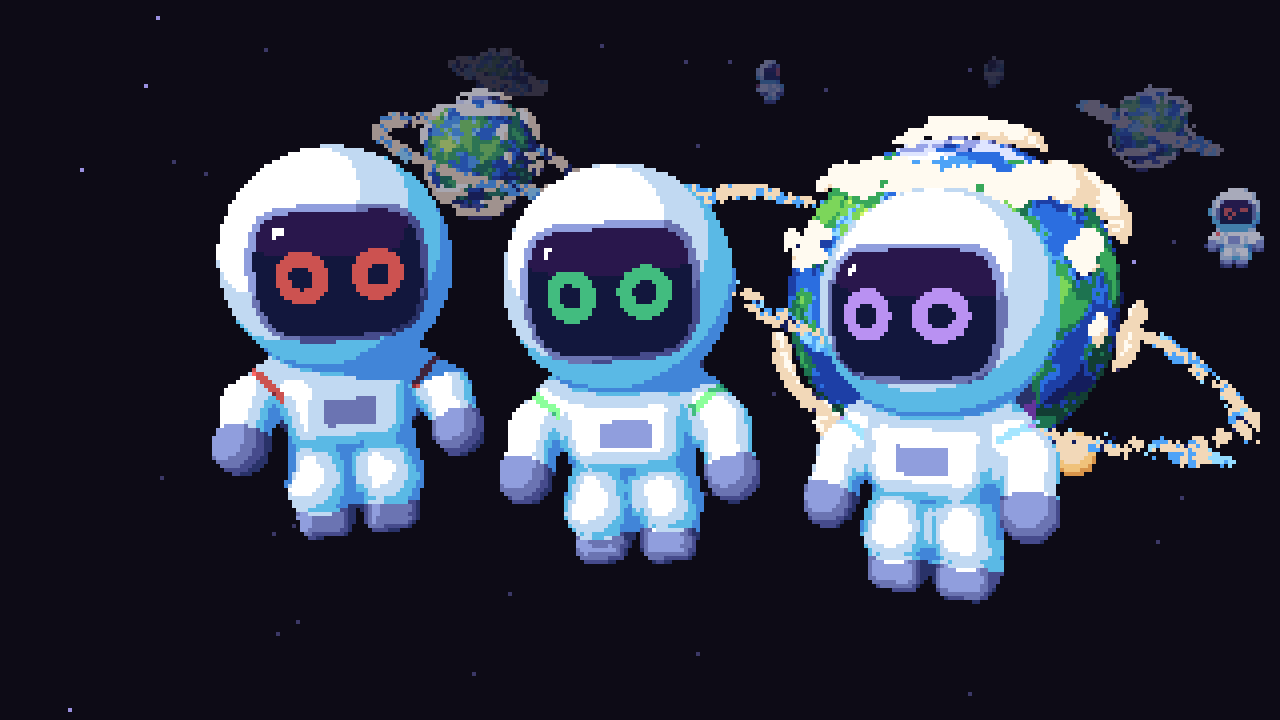
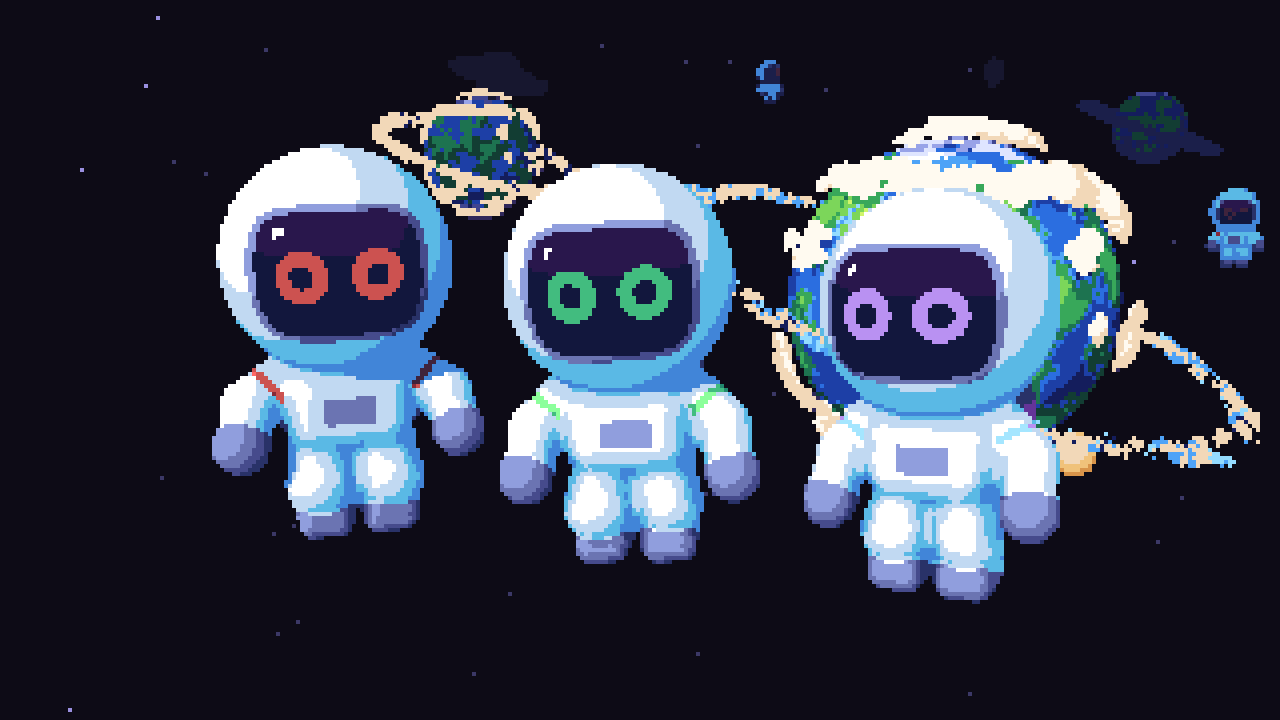
feat(mockup): depth colour budgets (fewer colours with distance)
DEPTH_LEVELS (one table): per-object level -> tones per ramp via LUTs on the
ramp data (near full, mid 3, far 2, silhouette 1 flat colour), a detail schedule
(mid: no cloud shadow, ring 2 tones; far: no clouds, moons or artefacts, ring 1
tone) and per-object colour caps. The fade snaps each reduced colour onto its own
ramp's reduced colours or the depth tint, with no lerped in-betweens. Lava glow is
emissive and never snaps to the tint. Astronauts follow the same budgets with
BLK 36. The UI counts objects per level. test/depth-budget.test.mjs renders each
depth-scene object alone (lush, lava) and checks the caps, monotonic counts and
non-empty renders. Unique colours: system shot 117 -> 68, depth scene 115 -> 44.

diff --git a/mockups/asset-viewer/viewer.js b/mockups/asset-viewer/viewer.js
@@ -112,20 +112,34 @@ const resolve = (key) => {
   return v !== undefined || !key.includes('.') ? v : resolve(key.split('.').slice(0, -1).join('.'));
 };
 
-const DEPTH_RANGES = [12, 26, 44]; // camera distances at which an object drops a level
-const depthCache = new Map();
+// Depth colour budgets: the further away something is, the fewer colours it uses. One
+// row per depth level, picked per OBJECT (never per pixel) from its camera distance.
+//   from      camera distance at which an object drops to this level
+//   lut       ramp entry i reads entry lut[length][i], so adjacent tones merge (keyed by
+//             ramp length; missing = identity). tones = distinct entries per ramp
+//   ringLut   the ring's 4 entries (0 = debris in the planet's shadow)
+//   detail    what a planet still draws at this level
+//   maxColours  per-object unique-colour caps, enforced by test/depth-budget.test.mjs
+// Beyond near, each faded colour is the tinted colour snapped onto that ramp's own
+// REDUCED colours (plus the palette's depth tint), so a fade steps down the object's own
+// ramp; there are no lerped in-between colours. Emissive glow (lava fissures) never snaps
+// to the tint, so a far lava world still glows. The silhouette is one flat colour.
+export const DEPTH_LEVELS = [
+  { name: 'near', from: 0, tones: 5, lut: {}, ringLut: [0, 1, 2, 3],
+    detail: { clouds: true, shadow: true, moons: true, artefacts: true, haze: true }, maxColours: { planet: 24, crew: 16 } },
+  { name: 'mid', from: 12, tones: 3, lut: { 5: [0, 1, 1, 3, 3], 4: [0, 1, 1, 3] }, ringLut: [0, 1, 1, 1],
+    detail: { clouds: true, shadow: false, moons: true, artefacts: true, haze: true }, maxColours: { planet: 14, crew: 10 } },
+  { name: 'far', from: 26, tones: 2, lut: { 5: [0, 0, 3, 3, 3], 4: [0, 0, 3, 3], 3: [0, 2, 2] }, ringLut: [1, 1, 1, 1],
+    detail: { clouds: false, shadow: false, moons: false, artefacts: false, haze: true }, maxColours: { planet: 6, crew: 5 } },
+  { name: 'silhouette', from: 44, tones: 1, lut: null, ringLut: null, // null: everything one flat colour
+    detail: { clouds: false, shadow: false, moons: false, artefacts: false, haze: false }, maxColours: { planet: 1, crew: 1 } },
+];
+const levelFor = (d) => DEPTH_LEVELS.filter((l) => d >= l.from).length - 1;
 // `family` lets planets fade through their own shared set (palette.planetDepth)
 // while the crew keeps the palette's depth steps.
-function depthColor(hex, level, family = 'crew') {
-  const key = `${paletteName}:${family}:${hex}:${level}`;
-  if (!depthCache.has(key)) {
-    const pal = family === 'planet' && PALETTES[paletteName].planetDepth ? PALETTES[paletteName].planetDepth : PALETTES[paletteName];
-    const [tint, t] = pal.depth[level];
-    const c = new THREE.Color(hex).lerp(new THREE.Color(tint), t);
-    // Published palettes snap each depth step back onto their own (darker) colours.
-    depthCache.set(key, pal.snap?.[level] ? new THREE.Color(snapToPool(c, pal.snap[level])) : c);
-  }
-  return depthCache.get(key);
+function depthTint(level, family) {
+  const pal = family === 'planet' && PALETTES[paletteName].planetDepth ? PALETTES[paletteName].planetDepth : PALETTES[paletteName];
+  return pal.depth[level];
 }
 
 const LIGHT_DIR = new THREE.Vector3(-0.3, 0.55, 0.78).normalize(); // top-left key ~40° off the view: concentric crescents
@@ -500,17 +514,36 @@ function setDepthLevel(obj, level) {
   if (obj.userData.depthLevel === level) return;
   obj.userData.depthLevel = level;
   const family = obj.userData.depthFamily ?? 'crew';
+  const row = DEPTH_LEVELS[level];
+  // Each ramp entry reads its reduced source hex (adjacent tones merged by the level's LUT).
+  const ramps = []; // per ramp: [[colour to write, reduced hex], ...]
   obj.traverse((o) => {
-    const mats = o.material ? [o.material].flat() : [];
-    for (const m of mats) {
+    for (const m of o.material ? [o.material].flat() : []) {
       for (const [name, key] of Object.entries(m.userData.ramps ?? {})) {
-        const hexes = resolve(key);
+        const hexes = [resolve(key)].flat();
         const arr = m.uniforms[name].value;
-        if (Array.isArray(arr)) arr.forEach((u, i) => u.copy(depthColor(hexes[Math.min(i, hexes.length - 1)], level, family))); // short ramps repeat their last colour
-        else arr.copy(depthColor(hexes, level, family));
+        const emissive = key === 'glow'; // lava fissures glow at any distance: they never snap to the tint
+        if (!Array.isArray(arr)) { ramps.push(Object.assign([[arr, hexes[0]]], { emissive })); continue; }
+        const lut = m.userData.ring ? row.ringLut : row.lut?.[arr.length];
+        ramps.push(Object.assign(arr.map((u, i) => [u, hexes[Math.min(lut ? lut[i] : i, hexes.length - 1)]]), { emissive })); // short ramps repeat their last colour
       }
     }
   });
+  if (!ramps.length) return;
+  const [tint, t] = depthTint(level, family);
+  // Tint toward the depth colour, then snap onto the ramp's own reduced colours (or the
+  // tint itself), so the fade steps down the object's own ramp with no in-between colours.
+  const snap = (hex, pool) => (level === 0 ? hex : snapToPool(new THREE.Color(hex).lerp(new THREE.Color(tint), t), pool));
+  if (!row.lut) {
+    const flat = snap(ramps[0][0][1], [ramps[0][0][1], tint]); // silhouette: one flat colour for the whole object
+    for (const r of ramps) for (const [u] of r) u.set(flat);
+  } else {
+    for (const r of ramps) {
+      const pool = [...new Set([...r.map(([, h]) => h), ...(r.emissive ? [] : [tint])])];
+      for (const [u, hex] of r) u.set(snap(hex, pool));
+    }
+  }
+  obj.userData.onDepth?.(level);
 }
 
 // ---------------------------------------------------------------- planet
@@ -658,6 +691,7 @@ function makePlanet() {
     },
   });
   ringMat.userData.ramps = { uRamp: 'ring' };
+  ringMat.userData.ring = true; // depth levels use DEPTH_LEVELS ringLut
   const ringTilt = new THREE.Group();
   ringTilt.rotation.set(0.2, 0, -0.32); // shallow tilt so the front arc crosses the disc
   const ring = new THREE.Points(new THREE.BufferGeometry(), ringMat);
@@ -693,7 +727,7 @@ function makePlanet() {
     surfaceMat.uniforms.uSea.value = s0 + rnd() * (s1 - s0);
     const [a, b, c, g] = biome.ramps;
     surfaceMat.userData.ramps = { uA: a, uB: b, uC: c, uG: g };
-    haze.visible = !!biome.haze;
+    hasHaze = !!biome.haze;
     if (biome.haze) hazeMat.userData.ramps = { uHaze: biome.haze };
     ringMat.userData.ramps = { uRamp: `ring.${biomeKey}` };
     const weather = WEATHER[biome.weather];
@@ -820,7 +854,8 @@ function makePlanet() {
     }
     massAttr.needsUpdate = true;
     puffs.count = shadow.count = n;
-    shadow.visible = !!weather && !weather.fissure;
+    hasShadow = !!weather && !weather.fissure;
+    applyDetail();
     puffs.instanceMatrix.needsUpdate = true;
 
     // Ring debris (Planetarium): >= 70% chunky 2x2 / plus particles grouped in
@@ -888,12 +923,23 @@ function makePlanet() {
     ringMat.uniforms.uRadius.value = shadowMat.uniforms.uRadius.value = group.scale.x;
     shadowMat.uniforms.uToSurface.value.copy(surface.matrixWorld).invert();
   }
-  function setExtras({ moons = false, halo: showHalo = false, artefacts = 0, teal = false, cloudShadow = true } = {}) {
-    for (const m of MOONS) m.mesh.visible = moons;
-    shadowMat.visible = cloudShadow;
-    halo.visible = showHalo;
-    surfaceMat.uniforms.uArtN.value = Math.min(artefacts, MAX_ART);
-    surfaceMat.uniforms.uArtTeal.value = teal ? 1 : 0;
+  // What draws = the viewer's extras AND the depth level's detail schedule (DEPTH_LEVELS).
+  let extras = { moons: false, halo: false, artefacts: 0, teal: false, cloudShadow: true };
+  let hasHaze = false, hasShadow = false;
+  function applyDetail(level = Math.max(0, group.userData.depthLevel ?? 0)) {
+    const d = DEPTH_LEVELS[level].detail;
+    for (const m of MOONS) m.mesh.visible = extras.moons && d.moons;
+    puffs.visible = d.clouds;
+    shadow.visible = hasShadow && extras.cloudShadow && d.shadow && d.clouds;
+    haze.visible = hasHaze && d.haze;
+    halo.visible = extras.halo;
+    surfaceMat.uniforms.uArtN.value = d.artefacts ? Math.min(extras.artefacts, MAX_ART) : 0;
+    surfaceMat.uniforms.uArtTeal.value = extras.teal ? 1 : 0;
+  }
+  group.userData.onDepth = applyDetail;
+  function setExtras(opts = {}) {
+    extras = { ...extras, ...opts };
+    applyDetail();
   }
 
   return { group, rebuild, update, ring, setExtras };
@@ -1340,6 +1386,7 @@ function applyState() {
   resize();
 }
 
+const depthReadout = document.getElementById('depth-readout');
 const clock = new THREE.Clock();
 const tmp = new THREE.Vector3();
 function frame() {
@@ -1351,11 +1398,16 @@ function frame() {
   [...crew, ...solos].forEach((a) => a.update(t));
   setDepthLevel(stars, 0); // stars and sky never fade, but still follow palette switches
   setDepthLevel(sky, 0);
+  const levelCount = DEPTH_LEVELS.map(() => 0);
   for (const obj of [...planets, ...SYSTEM, ...crew, ...solos].map((o) => o.group)) {
     const d = camera.position.distanceTo(obj.getWorldPosition(tmp));
-    const level = !state.depth ? 0 : DEPTH_RANGES.filter((r) => d >= r).length;
+    const level = !state.depth ? 0 : levelFor(d);
     setDepthLevel(obj, level);
+    if (obj.visible) levelCount[level]++;
   }
+  // depth debug: how many visible objects sit at each level
+  const text = DEPTH_LEVELS.map((l, i) => `${l.name} ${levelCount[i]}`).join(' · ');
+  if (depthReadout && depthReadout.textContent !== text) depthReadout.textContent = text;
   renderer.render(scene, camera);
 }
 

diff --git a/mockups/asset-viewer/index.html b/mockups/asset-viewer/index.html
@@ -37,6 +37,7 @@
     <label>pixel h <input id="pixel" type="range" min="120" max="480" value="180"></label>
     <div class="hint" id="pixel-readout"></div>
     <label>depth fade <input id="depth" type="checkbox" checked></label>
+    <div class="hint" id="depth-readout"></div>
     <label>rotate <input id="spin" type="checkbox" checked></label>
     <label>moons <input id="moons" type="checkbox" checked></label>
     <label>dark halo <input id="halo" type="checkbox"></label>

diff --git a/mockups/asset-viewer/README.md b/mockups/asset-viewer/README.md
@@ -12,7 +12,7 @@ npm run dev      # http://127.0.0.1:5180/  (loopback only; PORT=... to change)
 npm run shots    # re-capture screenshots/ in headless Chromium (no server, no network)
 npm run palettes # 25 Lospec-palette renders + labelled contact sheet in screenshots/palettes/
 npm run planets  # variety sheet, system shot, hero-loop.gif, artefacts-loop.gif, cloud-drift-24s/36s.gif, colour counts + loop-seam tests
-npm test         # cloud regression tests: puff handedness (det > 0), hollow-ring renders (32 framings + 12 hero-loop frames; LOOP_FRAMES=48 for all), shading direction (follows the mass dome), CPU/GPU simplex parity; artefacts: off = pixel-identical, on = visible, deterministic, loop-locked
+npm test         # cloud regression tests: puff handedness (det > 0), hollow-ring renders (32 framings + 12 hero-loop frames; LOOP_FRAMES=48 for all), shading direction (follows the mass dome), CPU/GPU simplex parity; artefacts: off = pixel-identical, on = visible, deterministic, loop-locked; cloud shadow: no phantoms, drifts with the clouds; depth colour budgets
 ```
 
 `node shots.mjs depth-scene crew-closeup` captures just the named shots.
@@ -31,7 +31,7 @@ npm test         # cloud regression tests: puff handedness (det > 0), hollow-rin
 | contributor | Sets the backpack-stripe, shoulder-band and face colour of the solo astronauts in the depth scene. The crew line-up always shows all three |
 | eyes | One of the 10 V2 eye designs for every astronaut; `auto` hashes it from the contributor's handle |
 | pixel h | Internal height from 120 to 480. Width is 16:9, and the canvas is upscaled by the largest integer factor that fits, with nearest-neighbour filtering |
-| depth fade | Turns depth darkening on or off |
+| depth fade | Turns the depth colour budgets on or off; the line below it counts visible objects per depth level |
 | rotate | Pauses or resumes planet and cloud spin |
 | moons | Two small orbiting moons on the hero planet |
 | dark halo | Optional teal-GIF look: a ~2 px bg+1 halo around planets (off by default) |
@@ -51,7 +51,16 @@ npm test         # cloud regression tests: puff handedness (det > 0), hollow-rin
 - **Astronaut**: one signed-distance body, raymarched inside a proxy box and composited with `gl_FragDepth`. It's made from primitives in chibi proportions: a helmet sphere (about the top 55%), a short torso, a rounded-box torso, a backpack wider than the torso, mitts and boots. Each arm and leg is one continuous bent tube (shoulder→elbow→wrist, hip→knee→ankle), smooth-unioned so the bend has no seam. Elbows and knees are softly bent, and they flex with the idle bob. Because it is one surface, one lighting pass shades the whole body. Cast shadows (arm on torso, helmet on shoulders) and contact occlusion come from marching the same field toward the light, then snapping to the 4-step suit ramp. The suit is a cool white. The visor is a ~4:3 rounded-rect "screen" (a superellipse in yaw and pitch) with a gear-tone bezel, in two near-black blue tones plus a fixed 3 px monitor-style glint in the screen's top-left corner, clear of the face. **Contributor colour** is on the backpack stripe and a band around each upper arm (shoulder bands), so it's readable from any angle.
 - **Faces** (`faces.js`): the ApprenticeHack Avatar V2 eye designs, eyes only. There are 10: dots, cyclops, visor slit, binocular, three eyes, happy, LED bar, heartbeat, slant and X eyes. They are evaluated **analytically per fragment** as 2D SDFs in visor-screen space (`EYES_GLSL`, inside the astronaut shader), so they are resolution-independent: the normal internal-resolution render pixelates them like the rest of the model. Geometry follows `js/avatar-v2.js`: `s` is a 32×24 screen box and `e = min(s.h, s.w*0.5)*1.12`, with the same offsets, radii and round-cap strokes. Eyes are centred on the 4:3 screen and glow, unlit, in the contributor colour; pupils (cyclops, binocular) cut back to the visor colour. One deviation: `happy` uses a thinner stroke (e*0.11) than the source. The design comes from ApprenticeHack's `hashStr(handle + 'e')`: `@caden` gets visor slit, `@mira` gets dots and `@juno` gets X eyes. Each astronaut blinks every ~4.3 s with a quick, staggered Y-squash (`uBlink`). A small fixed glint sits in the screen's top-left corner, clear of the eyes.
 - **Artefacts** (`artefacts.js`, ported from the ASCII FX round 2 pick, concept 3 "planet artefacts" in its filter form; `feature/ascii-fx` 29c64a1): `ARTEFACTS_GLSL` runs inside the planet surface shader, whose colour is now a `surface(p, band)` function. Sectors are fixed directions in the planet's own frame, so they turn with it and pass under the clouds. Each sector is a screen-aligned grid of 6 px glyph cells (×2 at 360p) anchored at its projected centre, squashed by how much it faces the camera. Every cell calls `surface()` again: a bug glyph in the terrain's inverted lightness on a darker band, a flat terrain block, terrain moshed in from elsewhere, flipped light bands, or torn rows. Changes from the reference: projection, sector size and cell scale are worked out in the shader, so it works for any planet and camera (planets under 12 px radius are skipped); sector longitudes step by the golden angle so one usually faces the camera; and a glyph that would vanish into its band (lava's near-black crust) switches to inverted lightness, so lava stays legible. Glitches re-roll on a loop-locked tick (180 per surface turn; every per-cell rate, 2–6 ticks, divides it). With artefacts off the output is pixel-identical to the shader without them (`npm test`).
-- **Depth darkening**: each whole object picks one of four levels from its camera distance (switch points at 12, 26 and 44). Its ramps are swapped for precomputed steps: `lerp(colour, #1b1f4a, 0 / 0.38 / 0.72)`, then `lerp(colour, #17172f, 0.88)` for the last step. That gives about -35% value at mid, about -70% far, and a dark navy silhouette with a faint hint of colour furthest out. The silhouette tint sits a touch above the near-black space so it still reads. Every step is a fixed palette colour; there are no gradients.
+- **Depth colour budgets** (`DEPTH_LEVELS` in `viewer.js`, one data table): the further away something is, the fewer colours it uses. Each whole object (never per pixel) picks a level from its camera distance (12, 26, 44):
+
+  | Level | Tones per ramp | Draws | Cap (planet / astronaut) |
+  |---|---|---|---|
+  | near | full (4–5) | everything: clouds, cloud shadow, ring, moons, artefacts | 24 / 16 |
+  | mid | 3 | clouds, ring (2 tones), moons, artefacts; no cloud shadow | 14 / 10 |
+  | far | 2 | body, ring (1 tone), haze; no clouds, moons or artefacts | 6 / 5 |
+  | silhouette | 1 | one flat shape | 1 / 1 |
+
+  Tones merge through a per-level LUT on the ramp data (e.g. a 5-step ramp reads `[0, 1, 1, 3, 3]` at mid and `[0, 0, 3, 3, 3]` far), so every shader just indexes its ramp as before. The fade tints each reduced colour toward the palette's depth tint (`#1b1f4a`, then `#17172f`) and **snaps it onto that ramp's own reduced colours or the tint**, so a fade steps down the object's own ramp with no lerped in-between colours. Lava glow is emissive and never snaps to the tint, so a far lava world still glows. The silhouette is one flat colour (the depth tint). Astronauts follow the same budgets with their BLK 36 ramps. The UI shows how many visible objects sit at each level under **depth fade**. `npm test` renders every object of the depth scene alone (lush and lava) and checks the caps, that colours never increase with distance, and that nothing renders empty.
 
 ## Palette
 
